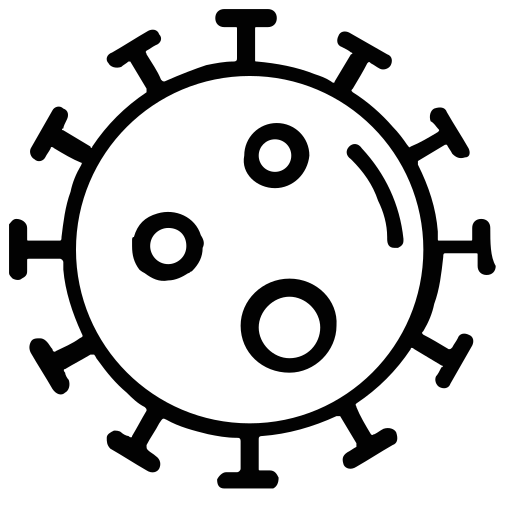
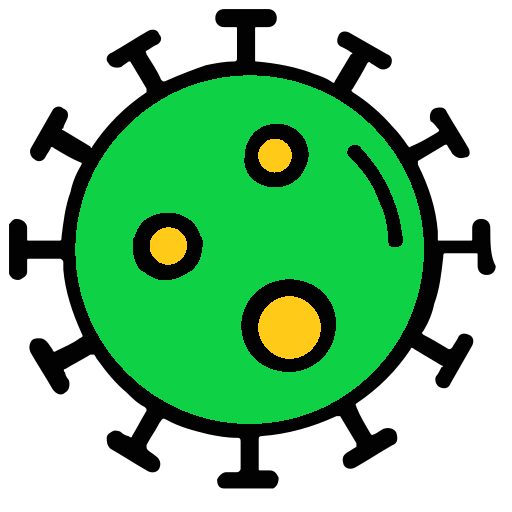
updated assets slightly, disabled onhover for cells

diff --git a/index.css b/index.css
@@ -92,10 +92,12 @@ div {
     background-position: 15px 10px;
 }
 
+/*
 .tissueCellColumn:hover {
     padding: 2px;
     border: solid 2px lightskyblue;
 }
+*/
 
 .nogrow {
     overflow: hidden;
